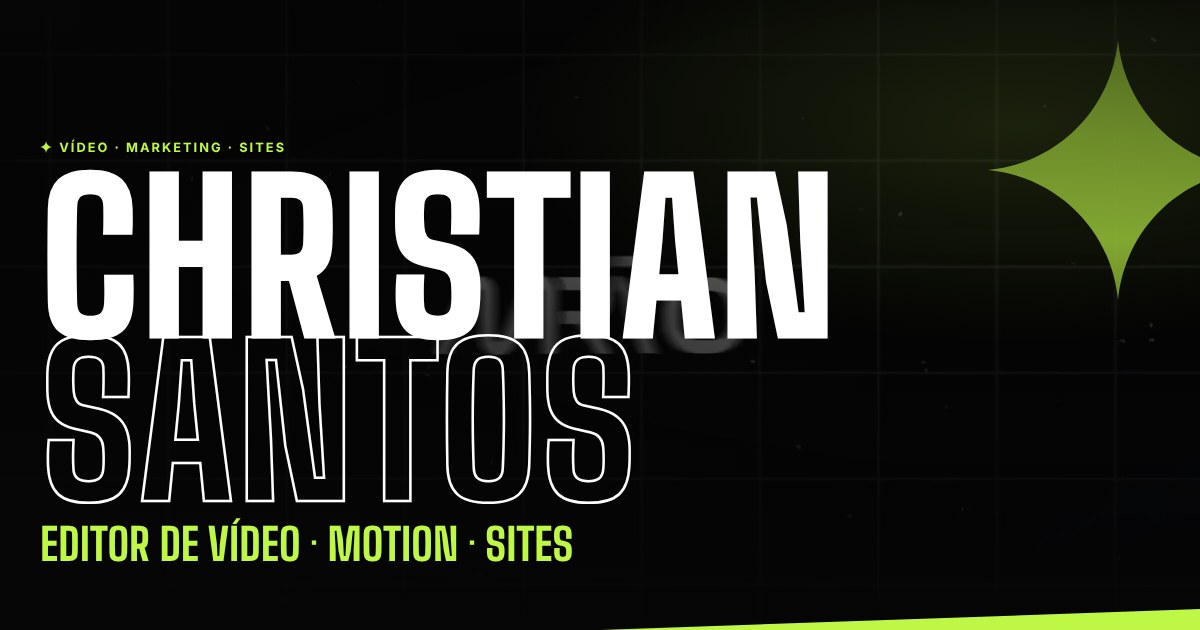
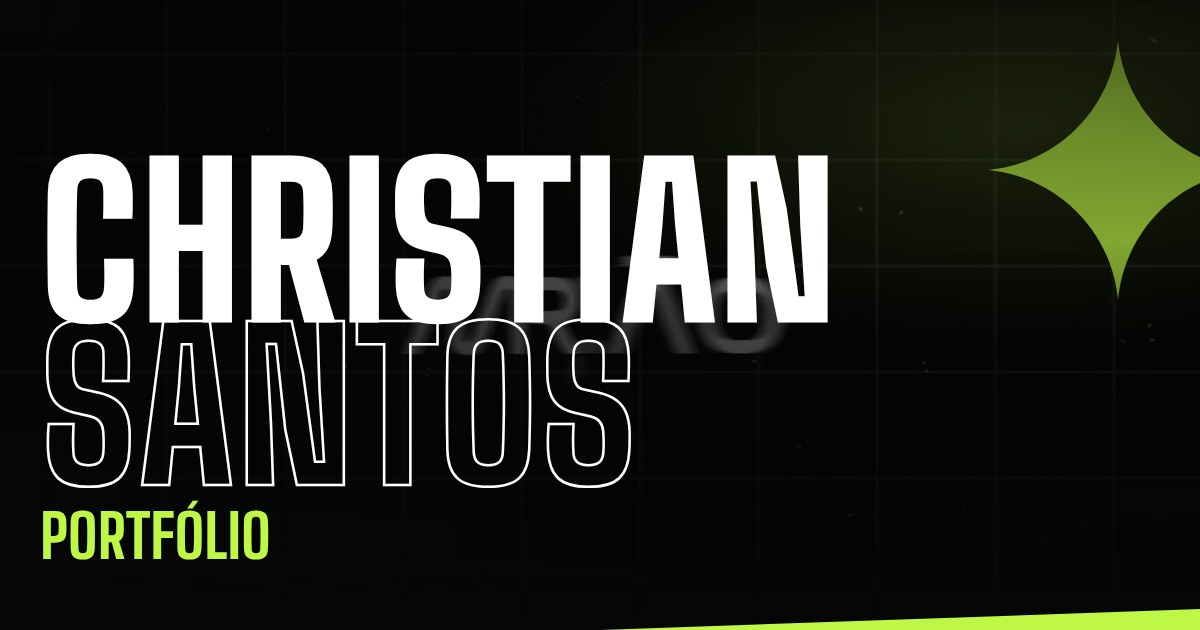
fix: imagem de compartilhamento com subtítulo Portfólio
Claude-Session: https://claude.ai/code/session_01CMS7c8qbFwikF9V3r4dsG6

Changed region(s): [[0.0308, 0.2111, 0.7092, 0.9048]]

diff --git a/marketing/index.html b/marketing/index.html
@@ -11,11 +11,11 @@
   <meta property="og:title" content="Marketing · Christian Santos — lançamentos, funil, copy e tráfego">
   <meta property="og:description" content="Estratégia de lançamento, funil de vendas, linha editorial, copy, e-mail marketing, grupos de WhatsApp e tráfego pago. Vamos planejar seu próximo lançamento?">
   <meta property="og:url" content="https://cfrancez.github.io/christian-santos/marketing/">
-  <meta property="og:image" content="https://cfrancez.github.io/christian-santos/assets/img/compartilhar.jpg?v=2">
+  <meta property="og:image" content="https://cfrancez.github.io/christian-santos/assets/img/compartilhar.jpg?v=3">
   <meta property="og:image:width" content="1200">
   <meta property="og:image:height" content="630">
   <meta name="twitter:card" content="summary_large_image">
-  <meta name="twitter:image" content="https://cfrancez.github.io/christian-santos/assets/img/compartilhar.jpg?v=2">
+  <meta name="twitter:image" content="https://cfrancez.github.io/christian-santos/assets/img/compartilhar.jpg?v=3">
   <link rel="icon" href="../assets/img/favicon.svg" type="image/svg+xml">
   <link rel="preconnect" href="https://fonts.googleapis.com">
   <link rel="preconnect" href="https://fonts.gstatic.com" crossorigin>

diff --git a/sites/index.html b/sites/index.html
@@ -11,11 +11,11 @@
   <meta property="og:title" content="Sites · Christian Santos — landing pages, WordPress e sites rápidos">
   <meta property="og:description" content="Landing pages de vendas e captura, sites em WordPress e Elementor e sites rápidos em código, integrados ao WhatsApp, ao e-mail e ao pixel. Peça um orçamento.">
   <meta property="og:url" content="https://cfrancez.github.io/christian-santos/sites/">
-  <meta property="og:image" content="https://cfrancez.github.io/christian-santos/assets/img/compartilhar.jpg?v=2">
+  <meta property="og:image" content="https://cfrancez.github.io/christian-santos/assets/img/compartilhar.jpg?v=3">
   <meta property="og:image:width" content="1200">
   <meta property="og:image:height" content="630">
   <meta name="twitter:card" content="summary_large_image">
-  <meta name="twitter:image" content="https://cfrancez.github.io/christian-santos/assets/img/compartilhar.jpg?v=2">
+  <meta name="twitter:image" content="https://cfrancez.github.io/christian-santos/assets/img/compartilhar.jpg?v=3">
   <link rel="icon" href="../assets/img/favicon.svg" type="image/svg+xml">
   <link rel="preconnect" href="https://fonts.googleapis.com">
   <link rel="preconnect" href="https://fonts.gstatic.com" crossorigin>

diff --git a/video/index.html b/video/index.html
@@ -11,11 +11,11 @@
   <meta property="og:title" content="Vídeo · Christian Santos — edição, motion, CPL, VSL e podcasts">
   <meta property="og:description" content="Edição para redes, motion design, CPL, VSL, anúncios, cursos e podcasts em estúdio. Vídeos que prendem a atenção e vendem. Peça um orçamento no WhatsApp.">
   <meta property="og:url" content="https://cfrancez.github.io/christian-santos/video/">
-  <meta property="og:image" content="https://cfrancez.github.io/christian-santos/assets/img/compartilhar.jpg?v=2">
+  <meta property="og:image" content="https://cfrancez.github.io/christian-santos/assets/img/compartilhar.jpg?v=3">
   <meta property="og:image:width" content="1200">
   <meta property="og:image:height" content="630">
   <meta name="twitter:card" content="summary_large_image">
-  <meta name="twitter:image" content="https://cfrancez.github.io/christian-santos/assets/img/compartilhar.jpg?v=2">
+  <meta name="twitter:image" content="https://cfrancez.github.io/christian-santos/assets/img/compartilhar.jpg?v=3">
   <link rel="icon" href="../assets/img/favicon.svg" type="image/svg+xml">
   <link rel="preconnect" href="https://fonts.googleapis.com">
   <link rel="preconnect" href="https://fonts.gstatic.com" crossorigin>

diff --git a/index.html b/index.html
@@ -11,11 +11,11 @@
   <meta property="og:title" content="Christian Santos · Vídeo, Marketing e Sites">
   <meta property="og:description" content="Christian Santos — editor de vídeo, motion designer e estrategista digital. Vídeos, lançamentos e sites que fazem sua marca vender. Fale comigo no WhatsApp.">
   <meta property="og:url" content="https://cfrancez.github.io/christian-santos/">
-  <meta property="og:image" content="https://cfrancez.github.io/christian-santos/assets/img/compartilhar.jpg?v=2">
+  <meta property="og:image" content="https://cfrancez.github.io/christian-santos/assets/img/compartilhar.jpg?v=3">
   <meta property="og:image:width" content="1200">
   <meta property="og:image:height" content="630">
   <meta name="twitter:card" content="summary_large_image">
-  <meta name="twitter:image" content="https://cfrancez.github.io/christian-santos/assets/img/compartilhar.jpg?v=2">
+  <meta name="twitter:image" content="https://cfrancez.github.io/christian-santos/assets/img/compartilhar.jpg?v=3">
   <link rel="icon" href="assets/img/favicon.svg" type="image/svg+xml">
   <link rel="preconnect" href="https://fonts.googleapis.com">
   <link rel="preconnect" href="https://fonts.gstatic.com" crossorigin>
